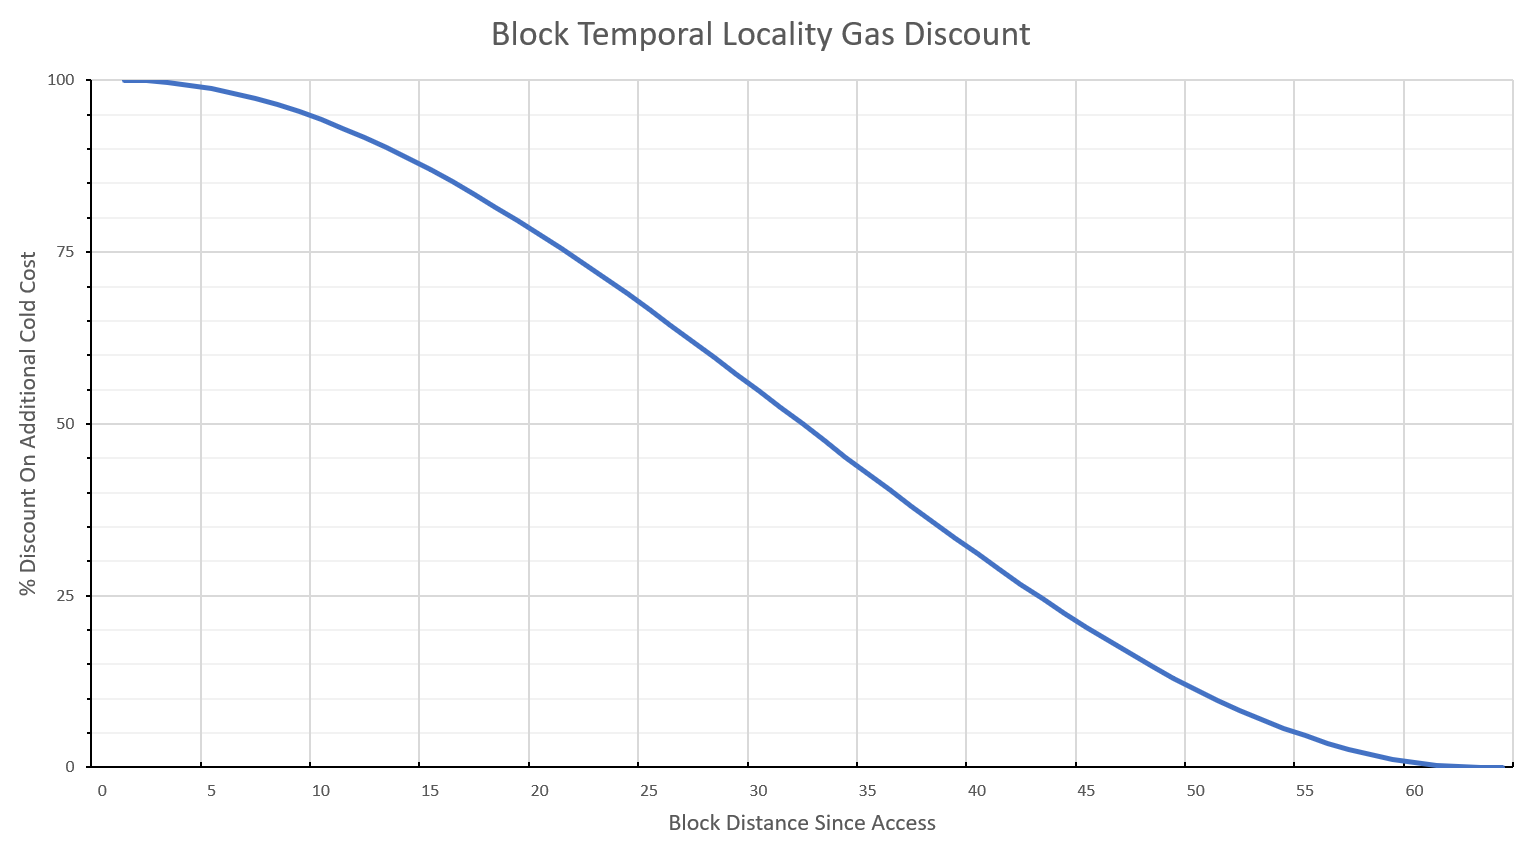
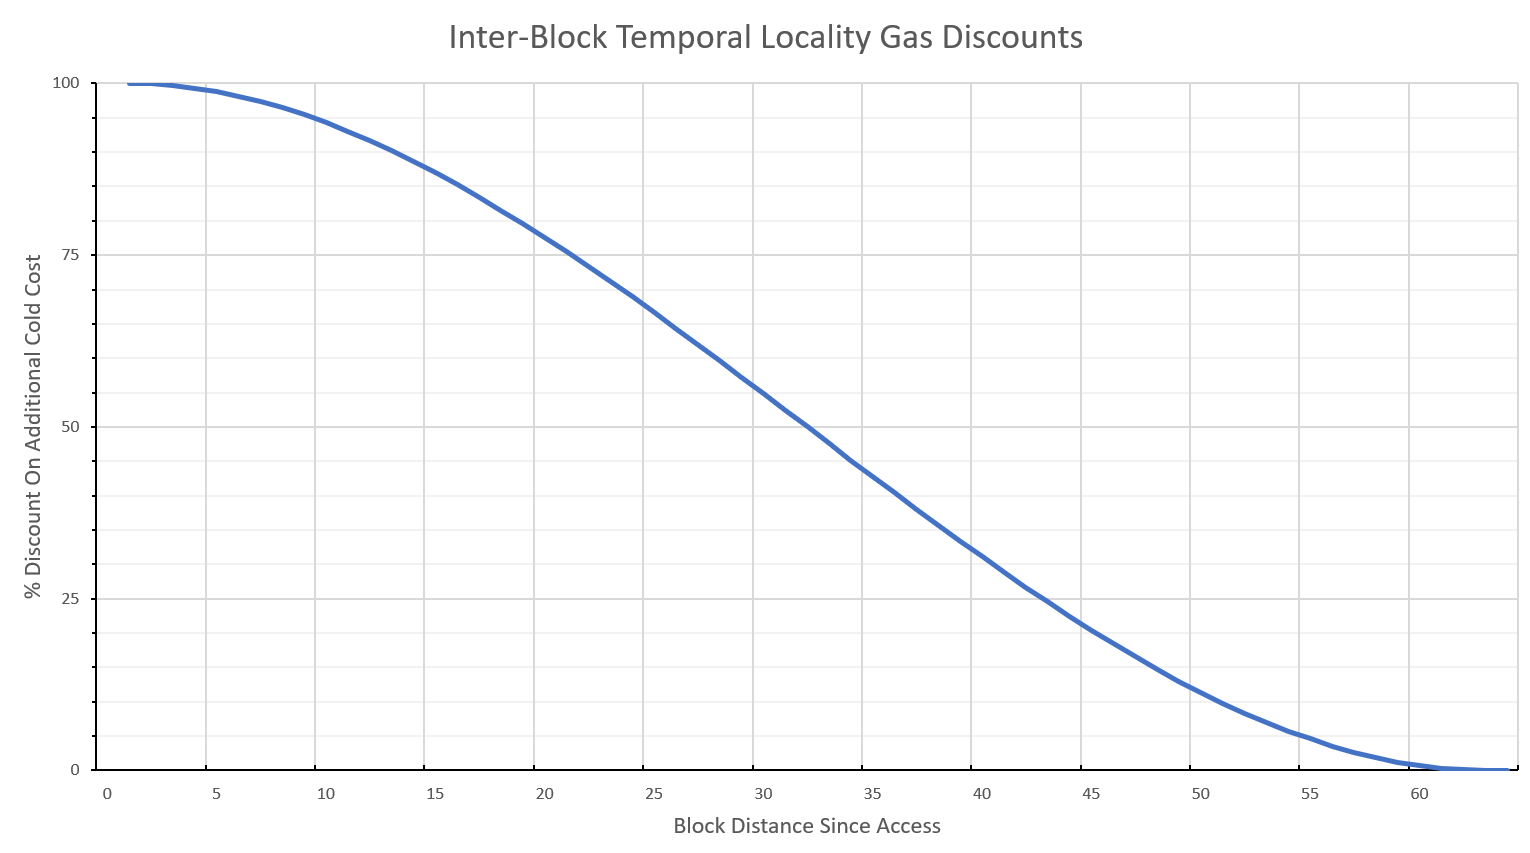
Rename

diff --git a/EIPS/eip-8057.md b/EIPS/eip-8057.md
@@ -1,6 +1,6 @@
 ---
 eip: 8057
-title: Block Temporal Locality Gas Discounts
+title: Inter-Block Temporal Locality Gas Discounts
 description: Multi‑block temporal locality discounts for state and account access
 author: Ben Adams (@benaadams), Toni Wahrstätter (@nerolation), Maria Inês Silva (@misilva73), Amirul Ashraf (@asdacap)
 discussions-to: https://ethereum-magicians.org/t/eip-8057-block-temporal-locality-gas-discounts/25912
